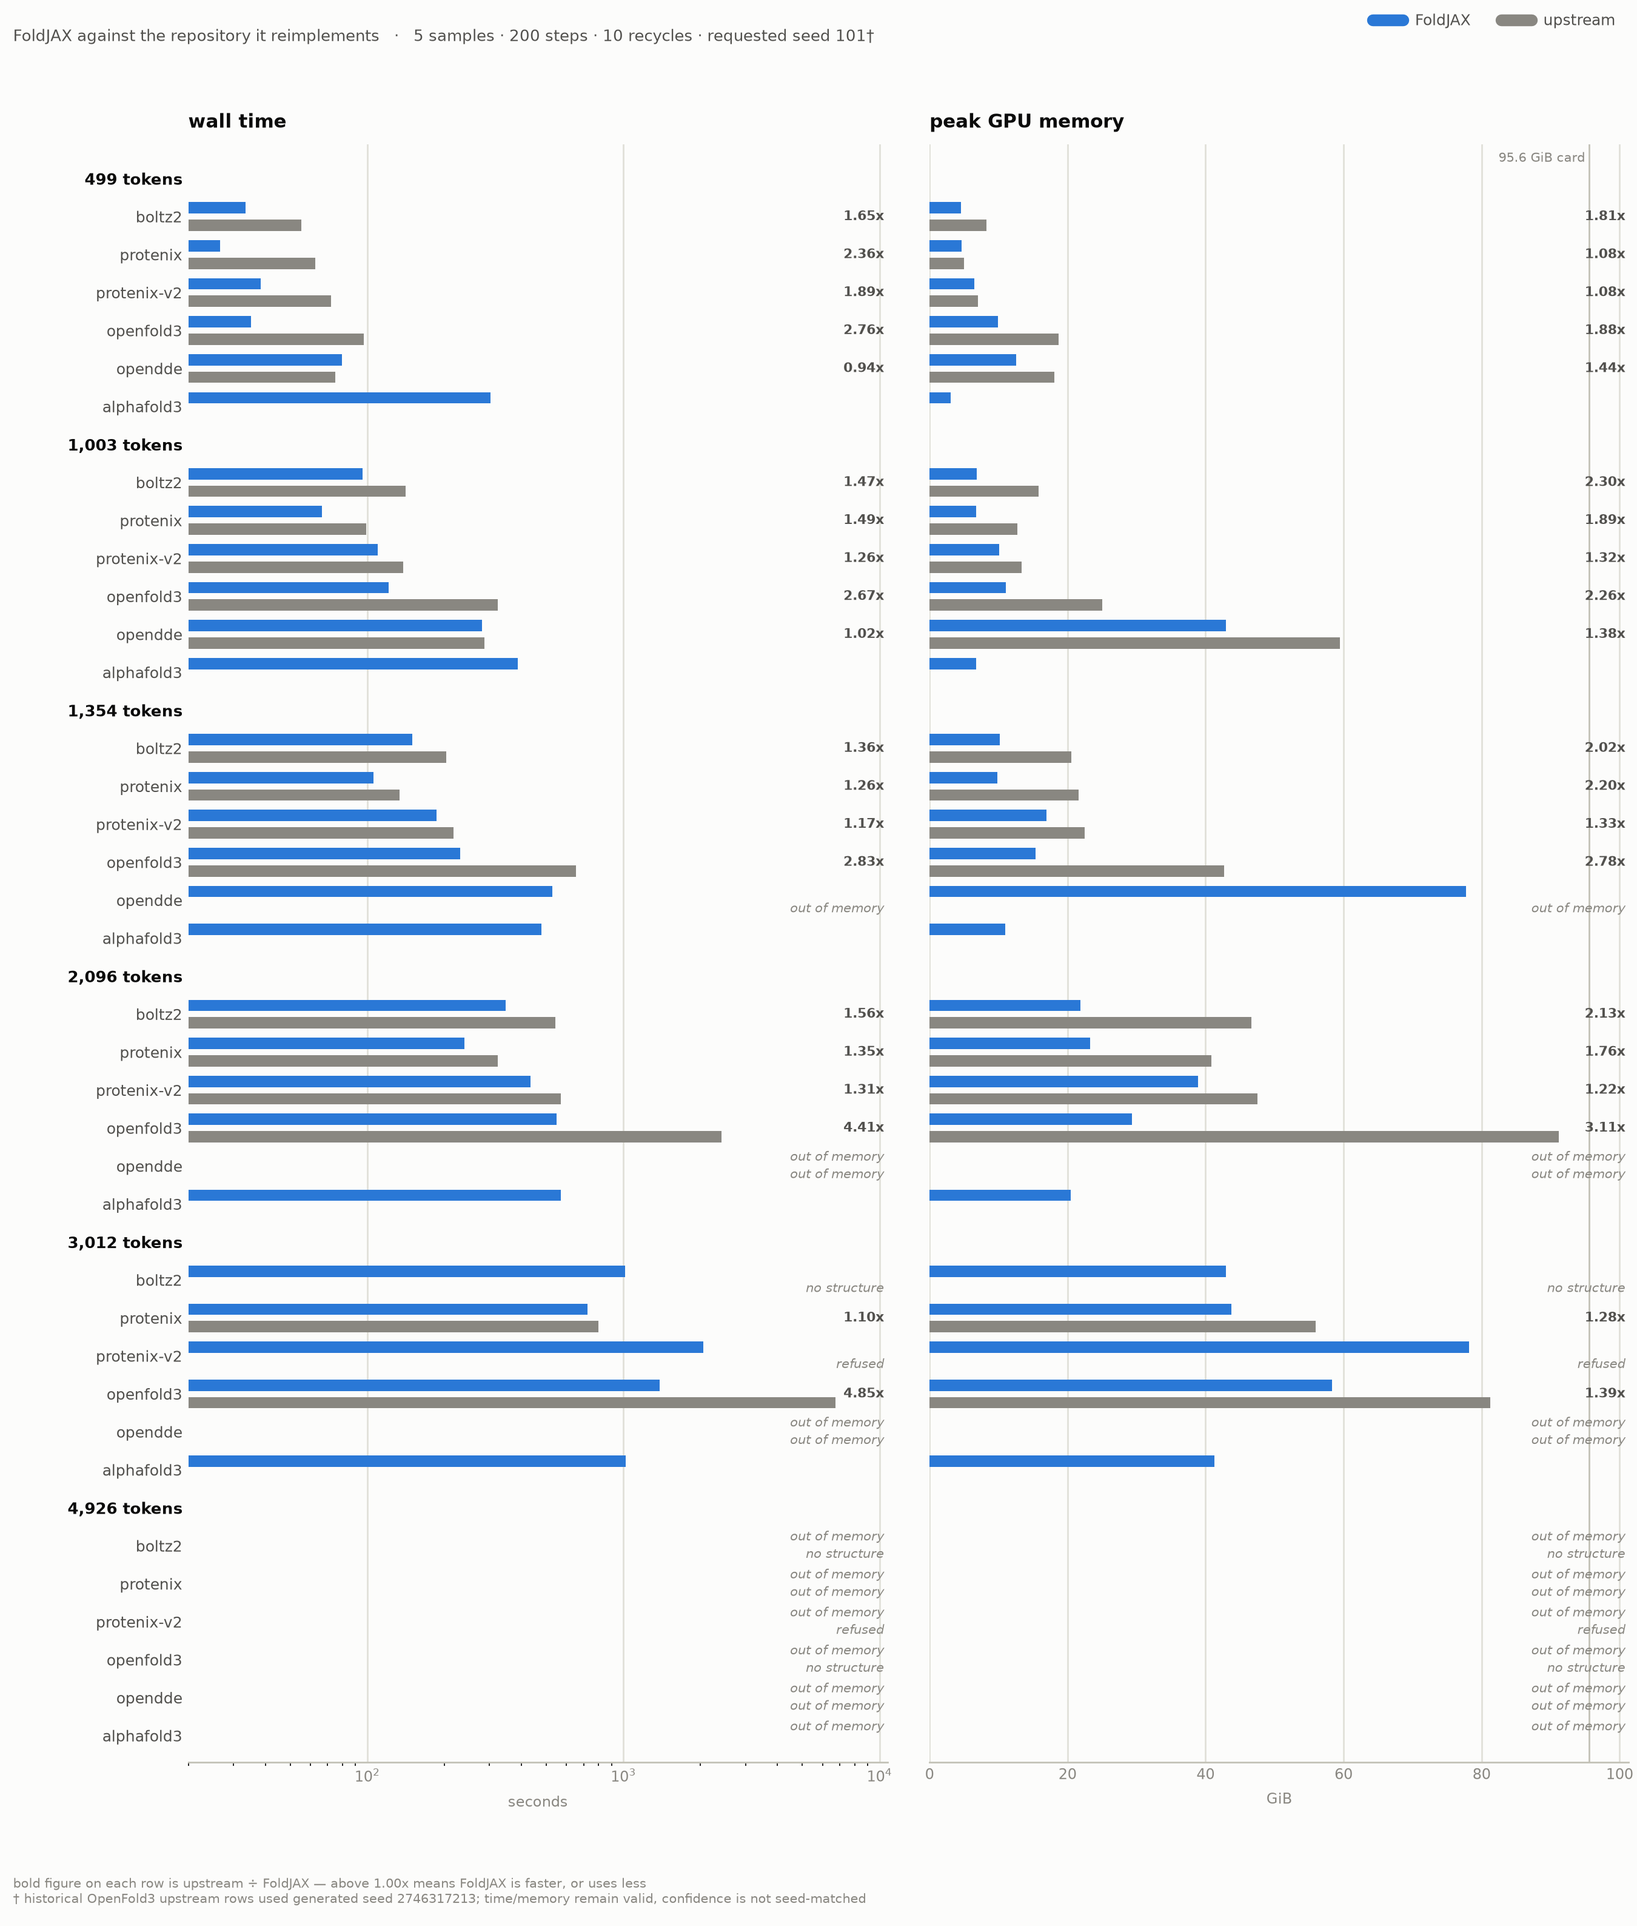
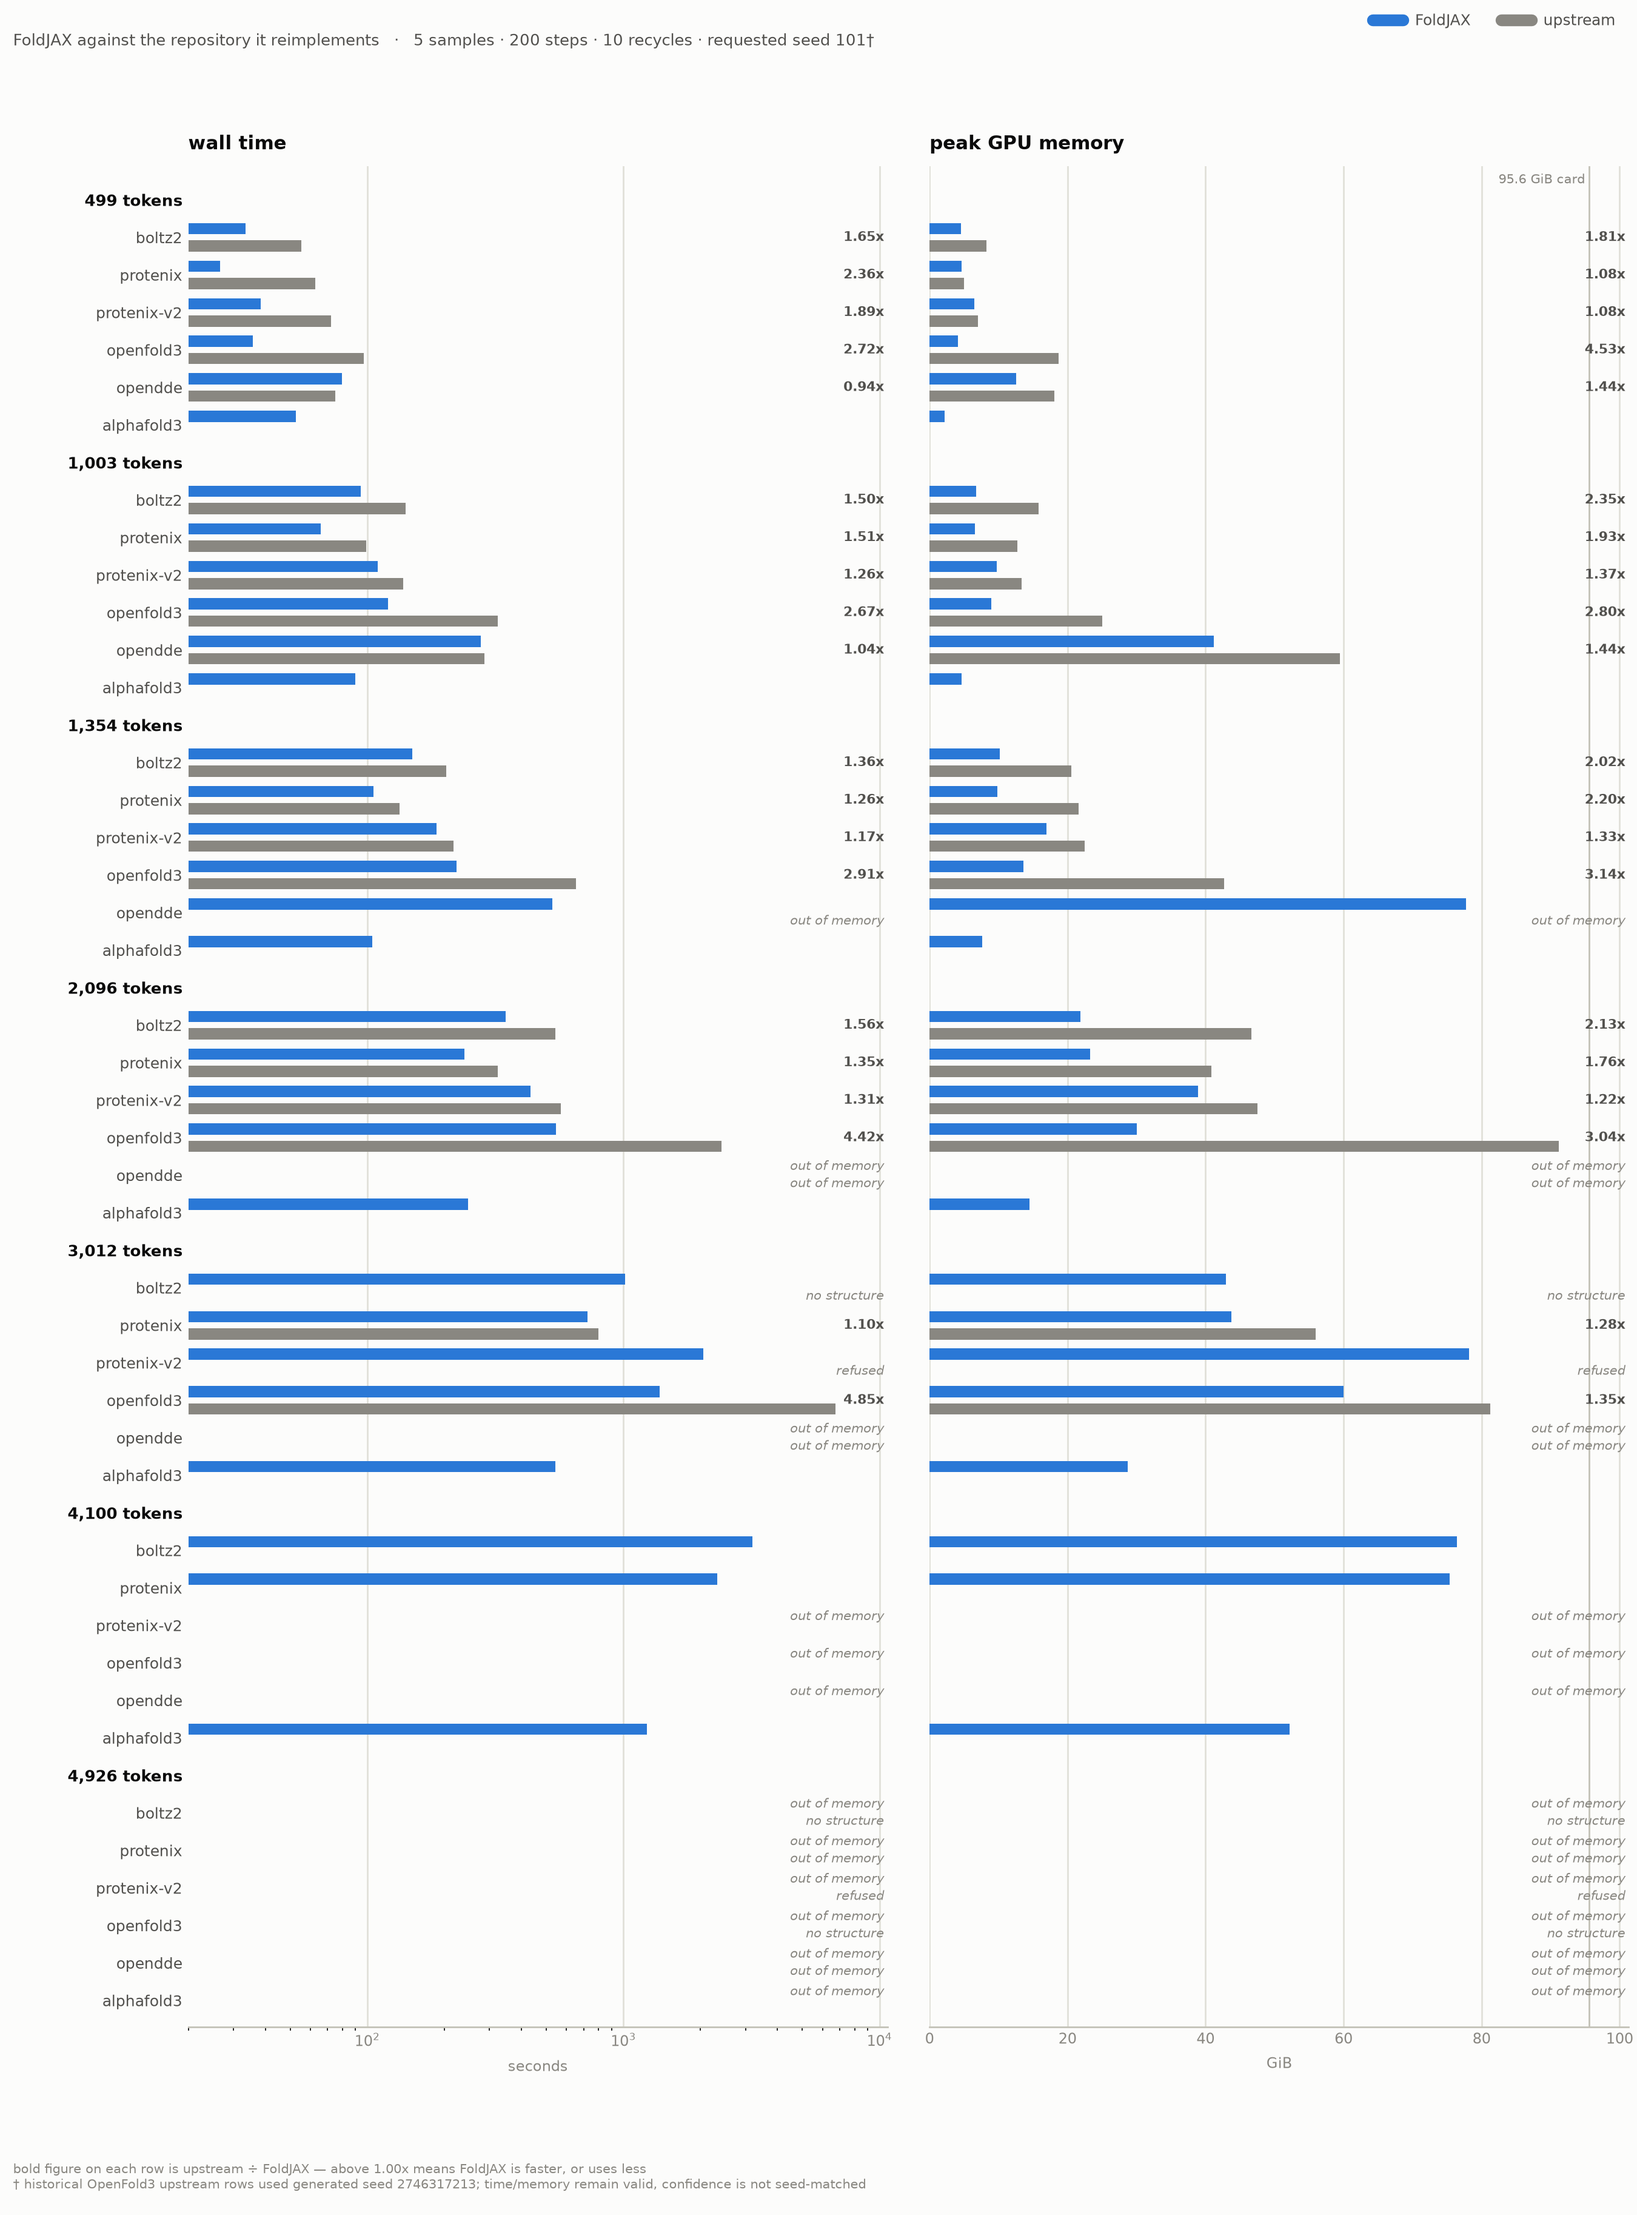
docs: rebuild the AlphaFold 3 column, and add the 4,100-token block
The AlphaFold 3 rows were measured before a persistent Tokamax autotuning store
existed, so every one carried a per-process tuning cost of 188-326 s depending
on shape. Re-measured on current main through the same harness: 302 -> 53 s at
499 tokens, 386 -> 90 at 1,003, 478 -> 104 at 1,354, 571 -> 247 at 2,096,
1,019 -> 544 at 3,012, with peak memory down a consistent 1.35-1.45x. Its
growth exponent between 2,096 and 3,012 now reads 2.17 rather than 1.60, which
puts it in the same band as its neighbours: the flat curve was a large constant
added to every point, and the constant was not even constant.

The other five were not assumed current. Re-checked at 1,003 tokens, four
matched their recorded times within 2% and their memory within 4%, so those rows
stand. OpenFold3 did not: its times match but its peak fell from 9.9 to 4.1 GiB
at 499 tokens and 11.1 to 8.9 at 1,003, while rising 2-3% at the top two sizes,
so its column was rebuilt as well. That is what widens the table's memory range
to 4.53x -- OpenFold3 at 499 tokens against its upstream.

A 4,100-token block is new, and it is where this card's ceiling turns out to
sit: AlphaFold 3 finishes at 52.1 GiB, Protenix at 75.3 and Boltz-2 at 76.4,
while OpenFold3 asks for one 107.85 GiB block, Protenix-v2 117.78 and OpenDDE
88.75. Three finish and three do not, which the old 3,012-to-4,926 jump hid
entirely. The upstream column is empty there by construction: nothing was run on
[…]

diff --git a/docs/make_benchmark_figure.py b/docs/make_benchmark_figure.py
@@ -45,7 +45,11 @@ sys.path.insert(0, str(Path(__file__).resolve().parent))
 from figure_style import THEMES, apply_theme, did_not_run  # noqa: E402
 
 MODELS = ("boltz2", "protenix", "protenix-v2", "openfold3", "opendde", "alphafold3")
-SIZES = (499, 1003, 1354, 2096, 3012, 4926)
+# 4,100 has no upstream column: nothing was run there on the reference side, and
+# one OpenFold3 upstream row at 3,012 tokens alone is 6,722 s. It earns its block
+# anyway, because it is where this card's ceiling sits -- three models complete
+# it and three cannot, which the 3,012-to-4,926 jump hid entirely.
+SIZES = (499, 1003, 1354, 2096, 3012, 4100, 4926)
 # `nvidia-smi` reported 97,887 MiB. Keep the plotted unit binary, matching the
 # MiB-to-GiB conversion used for every result bar.
 CARD_GIB = 97_887 / 1024

diff --git a/docs/benchmark.md b/docs/benchmark.md
@@ -16,7 +16,7 @@ dirty-worktree limitation for the optimization rows is recorded below.
 <picture>
   <source media="(prefers-color-scheme: dark)" srcset="benchmark-dark.png">
   <source media="(prefers-color-scheme: light)" srcset="benchmark-light.png">
-  <img alt="FoldJAX vs upstream: wall time and peak GPU memory at 499, 1,003, 1,354, 2,096, 3,012 and 4,926 tokens" src="benchmark-dark.png">
+  <img alt="FoldJAX vs upstream: wall time and peak GPU memory at 499, 1,003, 1,354, 2,096, 3,012, 4,100 and 4,926 tokens" src="benchmark-dark.png">
 </picture>
 
 **The schedule is AlphaFold 3's released default — 5 diffusion samples, 200
@@ -46,38 +46,44 @@ variant that changed 6,782 s/81.0 GiB to 6,722 s/83.2 GiB.
 
 | tokens | model | FoldJAX s | upstream s | FoldJAX GiB | upstream GiB | speed | memory | confidence | FoldJAX | upstream |
 |---|---|---|---|---|---|---|---|---|---|---|
-| 499 | alphafold3 | 302 | - | 3.0 | - | - | - | - | - | - |
+| 499 | alphafold3 | 53 | - | 2.2 | - | - | - | - | - | - |
 | 499 | boltz2 | 34 | 55 | 4.5 | 8.2 | 1.65x | 1.81x | complex_plddt | 0.9704 | 0.9700 |
 | 499 | esmfold2 | 31 | - | 16.1 | - | - | - | - | - | - |
 | 499 | opendde | 80 | 75 | 12.5 | 18.1 | 0.94x | 1.44x | ranking_score | 0.1946 | 0.1947 |
-| 499 | openfold3 | 35 | 97 | 9.9 | 18.7 | 2.76x | 1.88x | ptm† | 0.9325 | 0.9274 |
+| 499 | openfold3 | 36 | 97 | 4.1 | 18.7 | 2.72x | 4.53x | ptm† | 0.9318 | 0.9274 |
 | 499 | protenix | 27 | 63 | 4.6 | 5.0 | 2.36x | 1.08x | ranking_score | 0.1937 | 0.1935 |
 | 499 | protenix-v2 | 38 | 72 | 6.5 | 7.0 | 1.89x | 1.08x | ranking_score | 0.1950 | 0.1947 |
-| 1003 | alphafold3 | 386 | - | 6.7 | - | - | - | - | - | - |
-| 1003 | boltz2 | 96 | 141 | 6.9 | 15.8 | 1.47x | 2.30x | complex_plddt | 0.9495 | 0.9482 |
+| 1003 | alphafold3 | 90 | - | 4.7 | - | - | - | - | - | - |
+| 1003 | boltz2 | 94 | 141 | 6.7 | 15.8 | 1.50x | 2.35x | complex_plddt | 0.9492 | 0.9482 |
 | 1003 | esmfold2 | 69 | - | 23.1 | - | - | - | - | - | - |
-| 1003 | opendde | 281 | 287 | 42.9 | 59.5 | 1.02x | 1.38x | ranking_score | 0.1926 | 0.1930 |
-| 1003 | openfold3 | 121 | 323 | 11.1 | 25.0 | 2.67x | 2.26x | ptm† | 0.9307 | 0.9300 |
-| 1003 | protenix | 67 | 99 | 6.7 | 12.7 | 1.49x | 1.89x | ranking_score | 0.1921 | 0.1922 |
-| 1003 | protenix-v2 | 110 | 138 | 10.1 | 13.3 | 1.26x | 1.32x | ranking_score | 0.1931 | 0.1927 |
-| 1354 | alphafold3 | 478 | - | 11.0 | - | - | - | - | - | - |
+| 1003 | opendde | 277 | 287 | 41.2 | 59.5 | 1.04x | 1.44x | ranking_score | 0.1926 | 0.1930 |
+| 1003 | openfold3 | 121 | 323 | 8.9 | 25.0 | 2.67x | 2.80x | ptm† | 0.9310 | 0.9300 |
+| 1003 | protenix | 66 | 99 | 6.6 | 12.7 | 1.51x | 1.93x | ranking_score | 0.1921 | 0.1922 |
+| 1003 | protenix-v2 | 110 | 138 | 9.7 | 13.3 | 1.26x | 1.37x | ranking_score | 0.1931 | 0.1927 |
+| 1354 | alphafold3 | 104 | - | 7.6 | - | - | - | - | - | - |
 | 1354 | boltz2 | 150 | 204 | 10.2 | 20.6 | 1.36x | 2.02x | complex_plddt | 0.8275 | 0.8305 |
 | 1354 | opendde | 529 | failed | 77.8 | failed | - | - | - | - | - |
-| 1354 | openfold3 | 230 | 652 | 15.4 | 42.7 | 2.83x | 2.78x | ptm† | 0.8264 | 0.8360 |
+| 1354 | openfold3 | 224 | 652 | 13.6 | 42.7 | 2.91x | 3.14x | ptm† | 0.8261 | 0.8360 |
 | 1354 | protenix | 106 | 133 | 9.8 | 21.6 | 1.26x | 2.20x | ranking_score | 0.1800 | 0.1799 |
 | 1354 | protenix-v2 | 186 | 217 | 16.9 | 22.5 | 1.17x | 1.33x | ranking_score | 0.1810 | 0.1811 |
-| 2096 | alphafold3 | 571 | - | 20.5 | - | - | - | - | - | - |
+| 2096 | alphafold3 | 247 | - | 14.5 | - | - | - | - | - | - |
 | 2096 | boltz2 | 347 | 543 | 21.9 | 46.6 | 1.56x | 2.13x | complex_plddt | 0.9799 | 0.9795 |
 | 2096 | opendde | failed | failed | failed | failed | - | - | - | - | - |
-| 2096 | openfold3 | 547 | 2,411 | 29.3 | 91.2 | 4.41x | 3.11x | ptm† | 0.9058 | 0.9175 |
+| 2096 | openfold3 | 545 | 2,411 | 30.0 | 91.2 | 4.42x | 3.04x | ptm† | 0.9057 | 0.9175 |
 | 2096 | protenix | 240 | 323 | 23.2 | 40.8 | 1.35x | 1.76x | ranking_score | 0.9602 | 0.9604 |
 | 2096 | protenix-v2 | 434 | 569 | 39.0 | 47.5 | 1.31x | 1.22x | ranking_score | 0.9645 | 0.9652 |
-| 3012 | alphafold3 | 1,019 | - | 41.3 | - | - | - | - | - | - |
+| 3012 | alphafold3 | 544 | - | 28.7 | - | - | - | - | - | - |
 | 3012 | boltz2 | 1,016 | failed | 43.0 | failed | - | - | - | - | - |
 | 3012 | opendde | failed | failed | failed | failed | - | - | - | - | - |
-| 3012 | openfold3 | 1,385 | 6,722 | 58.4 | 81.3 | 4.85x | 1.39x | ptm† | 0.8711 | 0.8748 |
+| 3012 | openfold3 | 1,386 | 6,722 | 60.0 | 81.3 | 4.85x | 1.35x | ptm† | 0.8711 | 0.8748 |
 | 3012 | protenix | 723 | 797 | 43.7 | 56.0 | 1.10x | 1.28x | ranking_score | 0.9554 | 0.9502 |
 | 3012 | protenix-v2 | 2,054 | failed | 78.2 | failed | - | - | - | - | - |
+| 4100 | alphafold3 | 1,233 | - | 52.1 | - | - | - | - | - | - |
+| 4100 | boltz2 | 3,195 | - | 76.4 | - | - | - | - | - | - |
+| 4100 | opendde | failed | - | failed | - | - | - | - | - | - |
+| 4100 | openfold3 | failed | - | failed | - | - | - | - | - | - |
+| 4100 | protenix | 2,329 | - | 75.3 | - | - | - | - | - | - |
+| 4100 | protenix-v2 | failed | - | failed | - | - | - | - | - | - |
 | 4926 | alphafold3 | failed | - | failed | - | - | - | - | - | - |
 | 4926 | boltz2 | failed | failed | failed | failed | - | - | - | - | - |
 | 4926 | opendde | failed | failed | failed | failed | - | - | - | - | - |
@@ -218,7 +224,13 @@ few homologues. Both columns read the same file, so the comparison between them
 is unaffected; the growth curve is, and this size sits below the trend the
 other five set.
 
-**The AlphaFold 3 rows are the stale ones, and by a lot.** Re-running the same
+**Re-measured 2026-09-02 on current main.** The AlphaFold 3 column was rebuilt
+at every size and OpenFold3's memory with it; the other four models were
+re-checked at 1,003 tokens and matched their recorded times to 2%, so their rows
+stand as they were. A 4,100-token block was added, FoldJAX-side only. What
+follows is why those two columns moved.
+
+**The AlphaFold 3 rows were the stale ones, and by a lot.** Re-running the same
 harness on current main at 1,003 tokens gives 89.8 s and 4.69 GiB where the
 table says 386 s and 6.7 GiB -- 4.3x the time and 1.4x the memory. The harness
 is not at fault: it warms the compile cache in one process and measures in
@@ -229,10 +241,18 @@ tuning cost that has since been measured at 188 s to 326 s depending on size --
 289 s at this one, against a model that takes 87 s.
 
 Correcting for it also removes the gap that made AlphaFold 3 look like a
-different class of implementation. Warm, it is 87.3 s at 1,003 tokens against
-Protenix's 67 and Boltz-2's 96, and 242.6 s at 2,096 against Protenix's 240.
-The AlphaFold 3 column is being re-measured; until it lands, read its rows as
-model plus tuning rather than as model.
+different class of implementation. Warm, it is 90 s at 1,003 tokens against
+Protenix's 66 and Boltz-2's 94, and 247 s at 2,096 against Protenix's 240. Its
+growth exponent reads 2.17 between 2,096 and 3,012 rather than the 1.60 the
+tuned rows gave, which is the same band as its neighbours -- a fixed cost added
+to every point flattens a curve, and this one was not even fixed.
+
+**OpenFold3's memory moved too, and not uniformly.** Its times are unchanged to
+within 2%, but the peak fell from 9.9 to 4.1 GiB at 499 tokens and from 11.1 to
+8.9 at 1,003, while rising 2-3% at 2,096 and 3,012. The bounded confidence pass
+helps most where the pair stack is smallest. That is also what widens this
+table's memory range: the best ratio against an upstream is now OpenFold3's
+4.53x at 499 tokens rather than 3.11x.
 
 **Protenix's rows are one seed's draw of the alignment.** Its trunk samples a
 random number of MSA rows per recycle, so the compiled program's MSA tensor is

diff --git a/README.md b/README.md
@@ -42,7 +42,7 @@ before using it.
 <picture>
   <source media="(prefers-color-scheme: dark)" srcset="docs/benchmark-dark.png">
   <source media="(prefers-color-scheme: light)" srcset="docs/benchmark-light.png">
-  <img alt="FoldJAX vs upstream: wall time and peak GPU memory at 499, 1,003, 1,354, 2,096, 3,012 and 4,926 tokens" src="docs/benchmark-dark.png">
+  <img alt="FoldJAX vs upstream: wall time and peak GPU memory at 499, 1,003, 1,354, 2,096, 3,012, 4,100 and 4,926 tokens" src="docs/benchmark-dark.png">
 </picture>
 
 *Each port against the repository it came from — same job, nominal schedule,
@@ -51,9 +51,11 @@ rows used a different effective seed; numbers, method and caveats are in
 [docs/benchmark.md](docs/benchmark.md).*
 
 Across the 20 implementation/checkpoint pairs where both sides complete,
-FoldJAX holds a **1.08x to 3.11x** lower peak and runs at **0.94x to 4.85x** the
+FoldJAX holds a **1.08x to 4.53x** lower peak and runs at **0.94x to 4.85x** the
 speed. At 3,012 tokens, five FoldJAX rows finish (four model families plus the
-Protenix-v2 checkpoint), versus two upstream rows. The caveats that belong with
+Protenix-v2 checkpoint), versus two upstream rows. At 4,100 -- a size measured
+on the FoldJAX side only, and where this card's ceiling turns out to sit --
+three still finish and three do not. The caveats that belong with
 those numbers — including the one row FoldJAX loses on time — are in
 [docs/benchmark.md](docs/benchmark.md).
 
